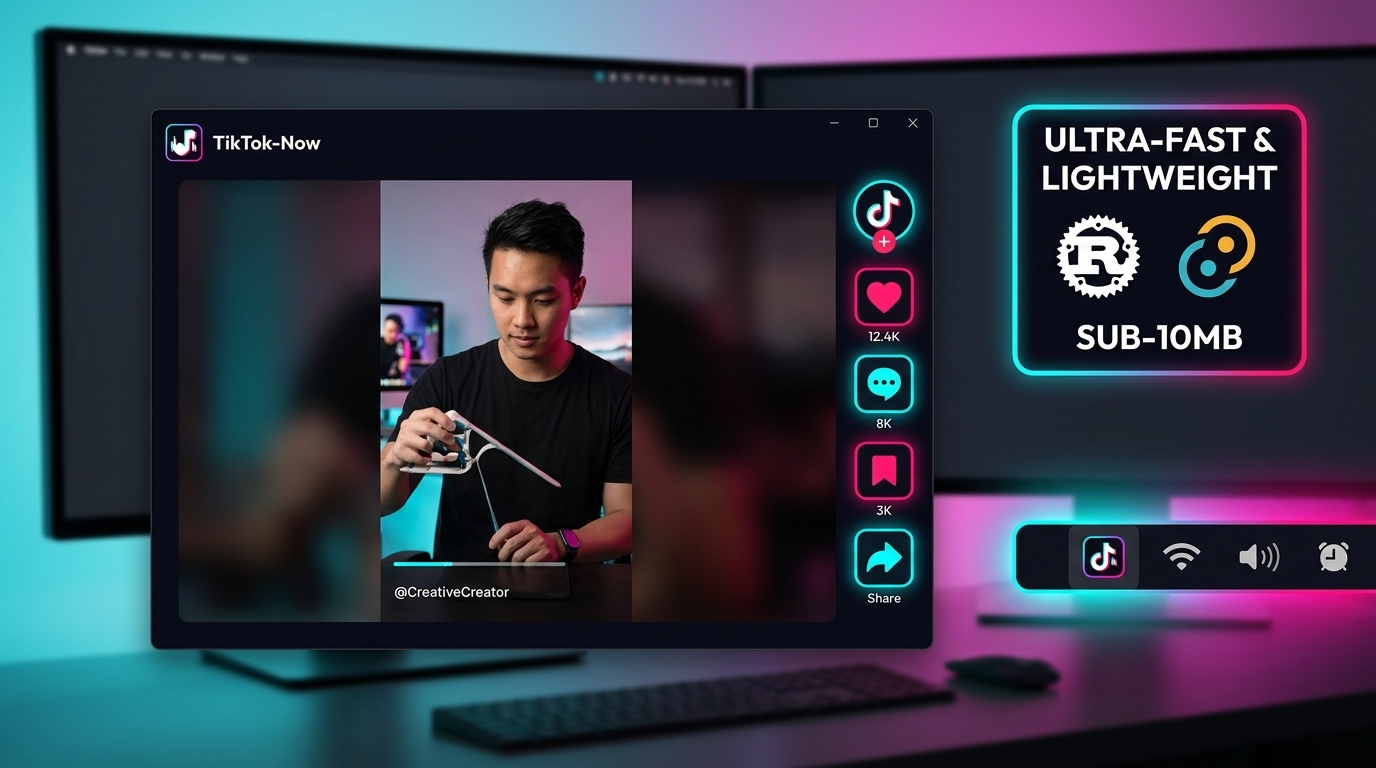
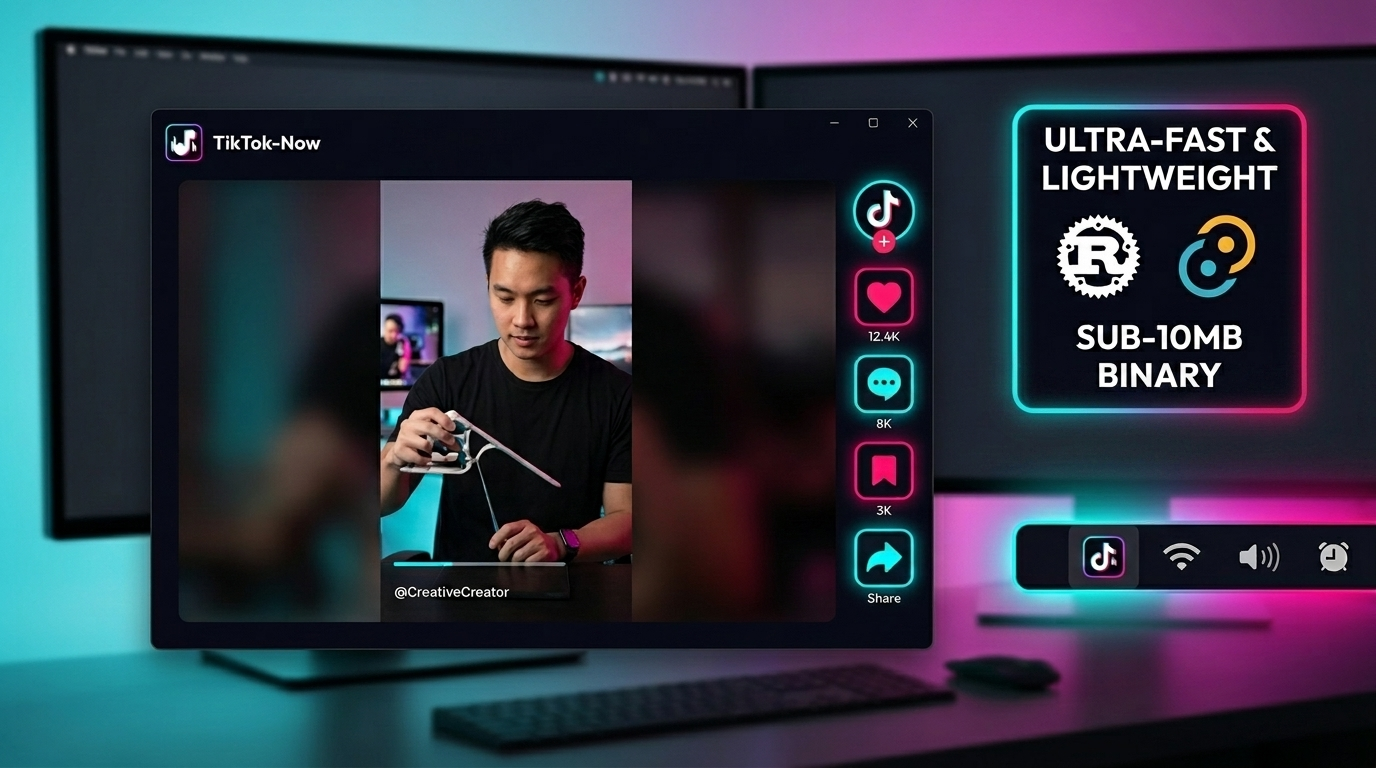
docs: clarify sub-10MB binary executable size on showcase graphic and markdown files

Changed region(s): [[0.7188, 0.4688, 0.9688, 0.5625], [0.625, 0.25, 0.6562, 0.3125], [0.7812, 0.7188, 0.8125, 0.75]]

diff --git a/RELEASE_NOTES.md b/RELEASE_NOTES.md
@@ -6,7 +6,7 @@
 
 ## Highlights
 
-- ⚡ **Sub-10 MB Footprint**: Powered by **Tauri v2 + Rust**. Renders natively without bundling Chromium or Node.js.
+- ⚡ **Sub-10 MB Binary Size**: Powered by **Tauri v2 + Rust**. Renders natively without bundling Chromium or Node.js.
 - 🎯 **Optimized Geometry**: Starts cleanly at **1250 × 900** resolution, centered automatically on launch.
 - 🎥 **Smart Autoplay Engine**: Uses `IntersectionObserver` to automatically pause videos when scrolled out of view, reducing CPU and memory consumption.
 - 🔐 **Isolated OAuth Login Popup**: Dedicated window handler for Google, Apple, and TikTok sign-in popups; automatically detects authentication success and closes cleanly.

diff --git a/README.md b/README.md
@@ -44,7 +44,7 @@
 
 <p align="center">
   <img src="docs/assets/tiktoknow-showcase.png" width="880" alt="TikTok-Now Interface & Ease of Use"><br>
-  <em>Figure 2: Product showcase demonstrating TikTok-Now's dark-mode viewing canvas, seamless integration with official TikTok video controls (like, comment, bookmark, share), background system tray behavior, and sub-10 MB native Rust + Tauri v2 architecture.</em>
+  <em>Figure 2: Product showcase demonstrating TikTok-Now's dark-mode viewing canvas, seamless integration with official TikTok video controls (like, comment, bookmark, share), background system tray behavior, and sub-10 MB binary size built on native Rust + Tauri v2 architecture.</em>
 </p>
 
 <br>

diff --git a/CHANGELOG.md b/CHANGELOG.md
@@ -9,7 +9,7 @@ Format follows [Keep a Changelog](https://keepachangelog.com/en/1.0.0/).
 
 ### Added
 - Initial public release of **TikTok-Now** desktop application for Windows, macOS, and Linux.
-- **Tauri v2 + Rust architecture**: Sub-10 MB native WebView wrapper targeting `https://www.tiktok.com/`.
+- **Tauri v2 + Rust architecture**: Sub-10 MB standalone executable binary targeting `https://www.tiktok.com/`.
 - **IntersectionObserver Autoplay Engine**: Automatic playback of focused feed videos; background videos pause to conserve resources.
 - **Full Keyboard Shortcuts Suite**:
   | Key | Action |
